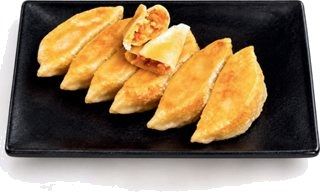
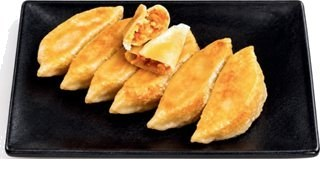
YAYA review round 4 fixes: no phone overflow, zh hero one line, softer phone hero edge
- Catalog names and pack specs wrap again on phones; only the color tag stays with its word
- zh hero title keeps its line (12ch cap applies to English only)
- Phone hero photo fades into black; wholesale subtitle stacks on phones
- Chopstick ends feathered; grey shadow smear under the cooked gyoza plate removed
- "Fried Glutinous Rice Balls"; 300 and pcs never split

Changed region(s): [[0.0, 0.8, 0.9688, 0.9846]]

diff --git a/src/i18n/ui.ts b/src/i18n/ui.ts
@@ -69,7 +69,7 @@ export const t: Record<string, Record<Locale,string>> = {
     "zh-Hant": "四種口味，2 lb／袋，8 袋／箱。全熟產品，加熱方法請依產品包裝指引。"
   },
   "product.fried-rice-ball.name": {
-    "en": "Fried Rice Balls",
+    "en": "Fried Glutinous Rice Balls",
     "zh-Hant": "炸不爆 · 油炸湯圓"
   },
   "product.fried-rice-ball.body": {
@@ -129,7 +129,7 @@ export const t: Record<string, Record<Locale,string>> = {
     "zh-Hant": "36g 灌湯小籠包"
   },
   "wholesale.offers.o1.body": {
-    "en": "Pork or chicken. 36g each, 30 pcs per bag, 300 pcs per case.",
+    "en": "Pork or chicken. 36g each, 30 pcs per bag, 300\u00a0pcs per case.",
     "zh-Hant": "豬肉與雞肉兩種口味。每顆 36g，每袋 30 個，每箱 300 個。"
   },
   "wholesale.offers.o2.stat": {
